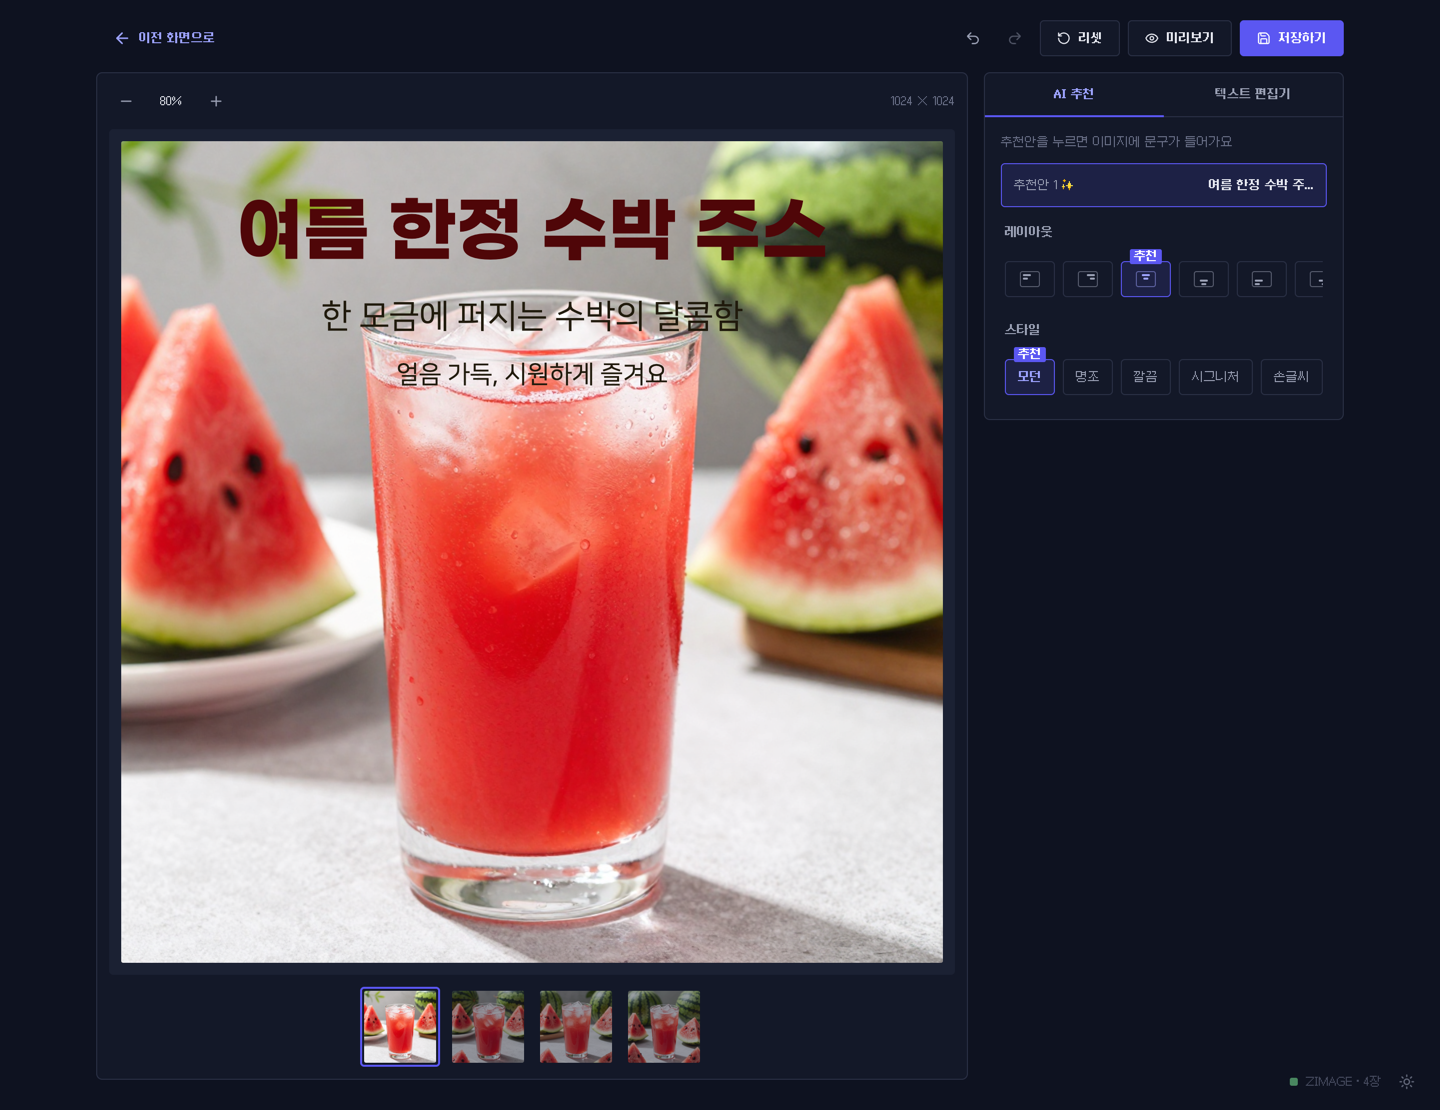
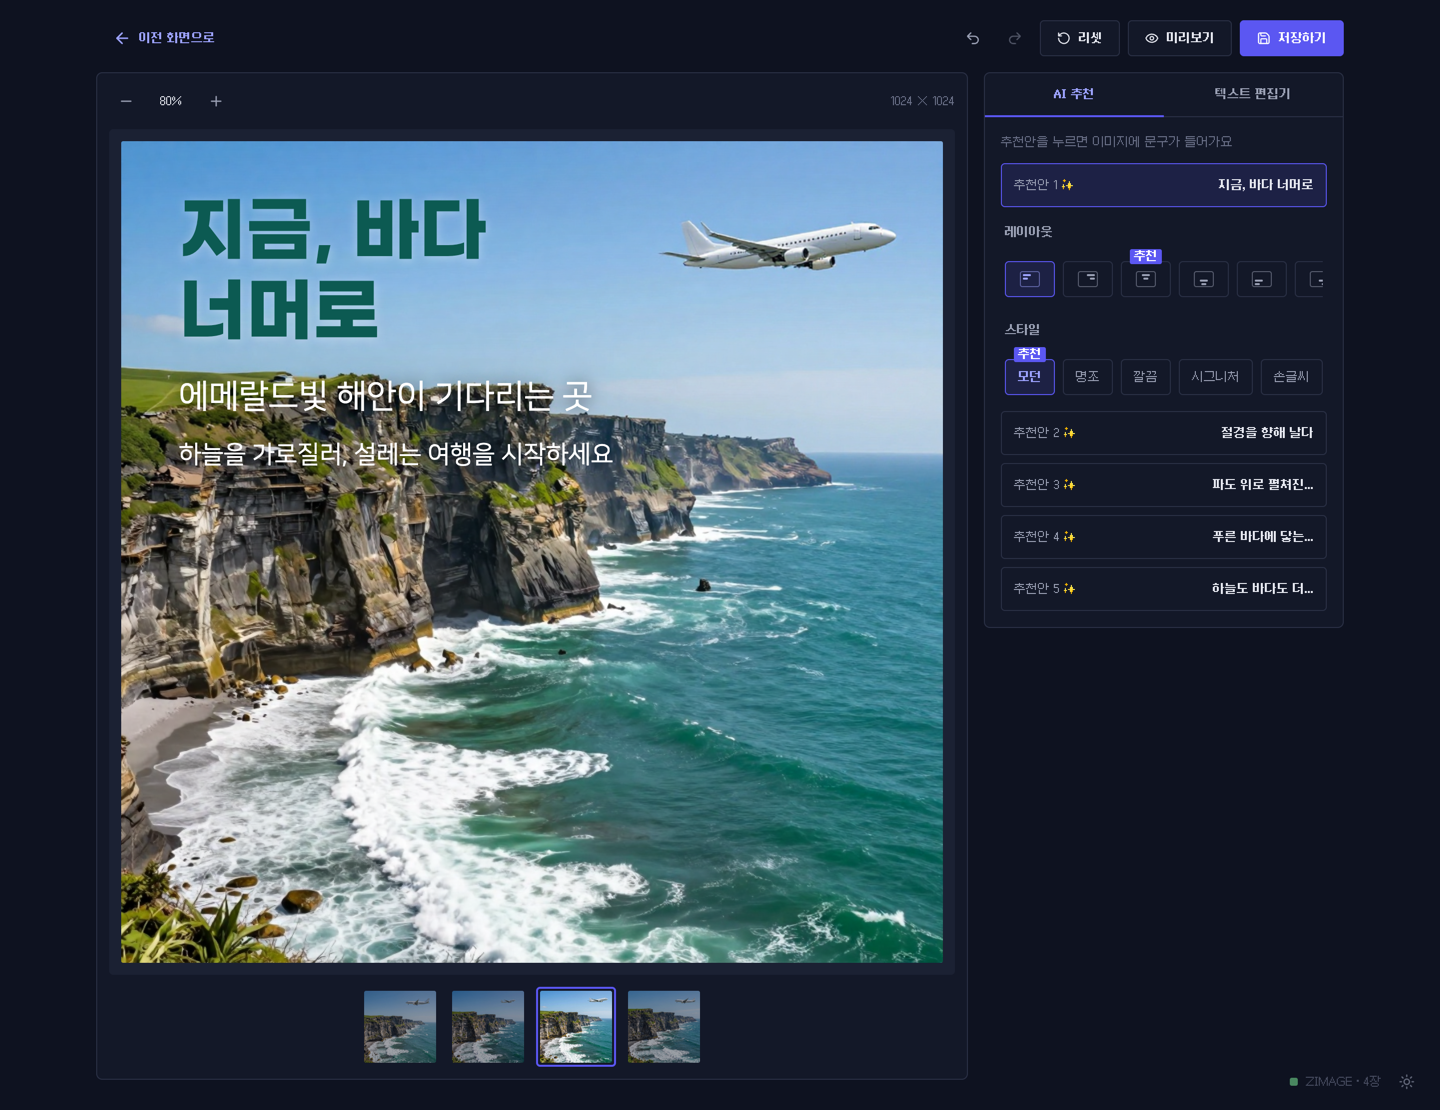
docs: README 시연 이미지를 바다·절벽 항공사 광고로 교체

diff --git a/README.md b/README.md
@@ -10,8 +10,8 @@
 
 ## 시연
 
-> 프롬프트: `여름 한정 수박 주스, 투명한 유리잔에 담긴 빨간 수박 주스와 얼음, 밝은 햇살이 드는 테이블, 상큼하고 시원한 분위기, 정면 구도`
-> 삽입할 문구(Title): `여름 한정 수박 주스`, 스타일: 실사 사진, 비율: 1:1
+> 프롬프트: `항공사 여행 광고, 에메랄드빛 바다 위로 우뚝 솟은 웅장한 해안 절벽, 파란 하늘을 가로지르는 하얀 여객기, 밝은 햇살과 부서지는 파도, 탁 트이고 설레는 분위기, 넓은 풍경 구도`
+> 삽입할 문구(Title): `지금, 바다 너머로`, 스타일: 실사 사진, 비율: 1:1
 
 | 생성 원본 | 문구를 넣은 완성본 |
 |:-:|:-:|
